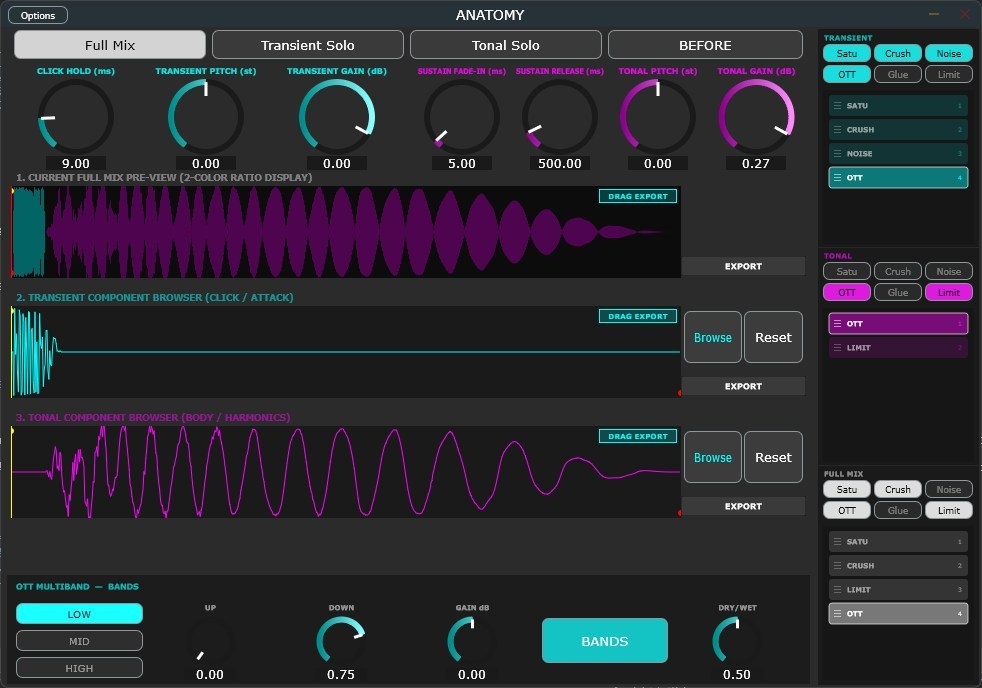
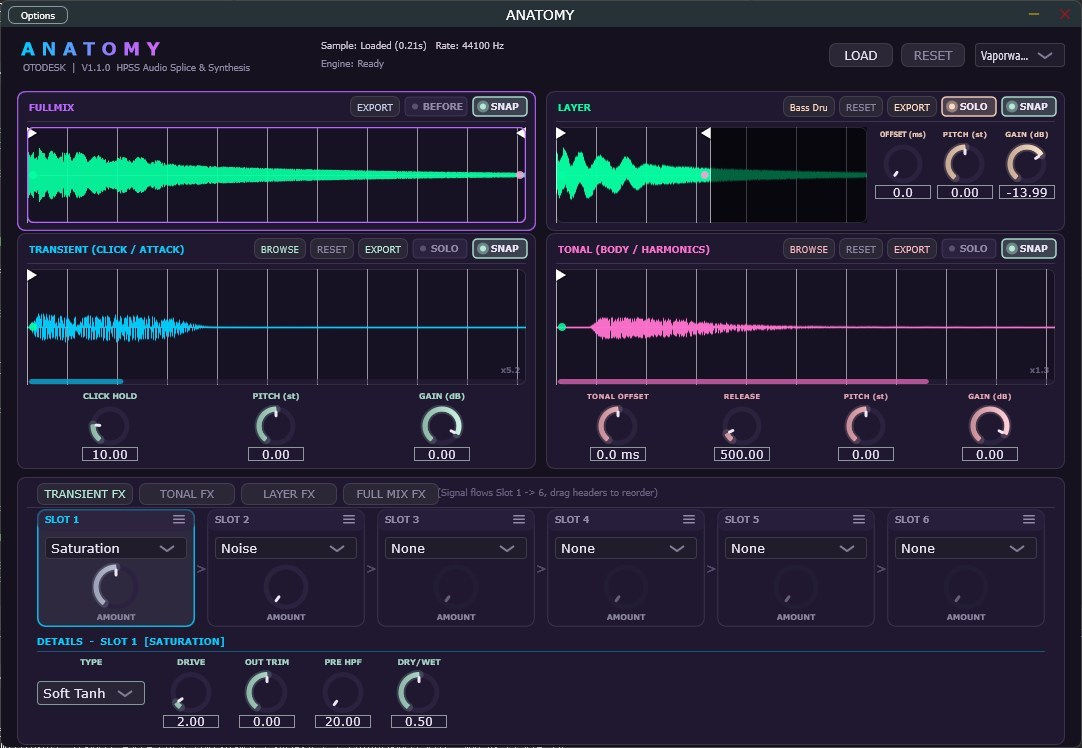
クラッシュ原因の究明

diff --git a/Source/PluginEditor.cpp b/Source/PluginEditor.cpp
@@ -192,12 +192,7 @@ AnatomyAudioProcessorEditor::AnatomyAudioProcessorEditor(AnatomyAudioProcessor& 
 AnatomyAudioProcessorEditor::~AnatomyAudioProcessorEditor()
 {
     stopTimer();
-    themeCombo.getRootMenu()->setLookAndFeel(nullptr);
     setLookAndFeel(nullptr);
-    for (auto* child : getChildren())
-    {
-        child->setLookAndFeel(nullptr);
-    }
 }
 
 void AnatomyAudioProcessorEditor::updateSoloButtonStates()

diff --git a/Source/PluginProcessor.cpp b/Source/PluginProcessor.cpp
@@ -1986,8 +1986,10 @@ void OfflineMixRenderer::executeRender()
         }
     }
 
+    if (threadShouldExit()) return;
     processor.applyEffectsOffline(outputMix, TargetRoute::FullMix, sr);
 
+    if (threadShouldExit()) return;
     {
         const juce::ScopedLock sl(renderLock);
         renderedFullMix.makeCopyOf(outputMix);
